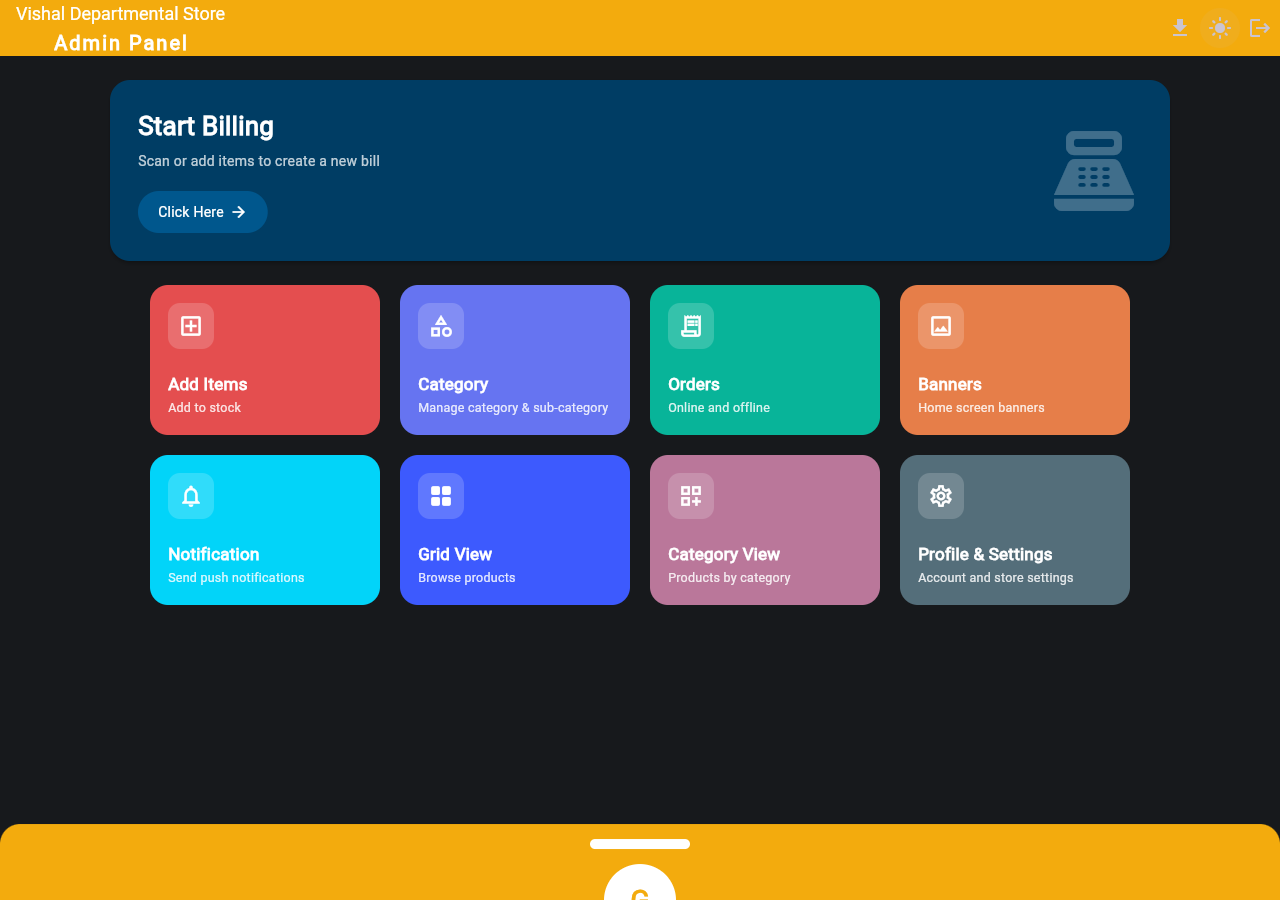
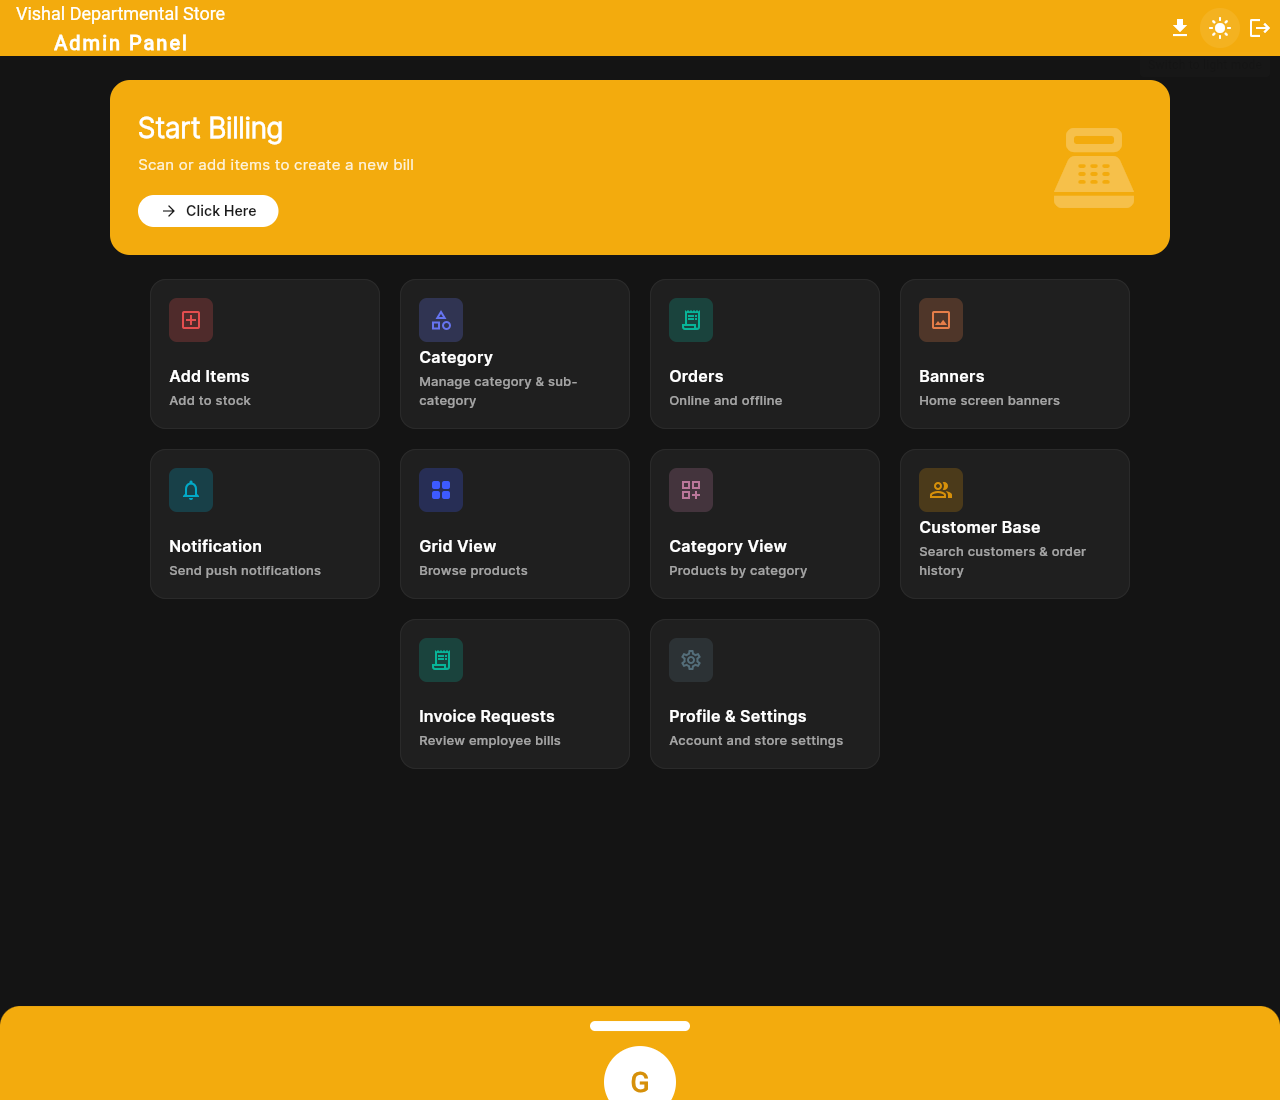
Write project README with fresh screenshots of the redesigned UI
Replaces the Flutter-generated boilerplate with an overview of what the
admin panel actually does (billing, catalog, orders, customer database,
RBAC/invoice approvals), plus screenshots recaptured against the current
Shopify-inspired redesign and RBAC feature.

diff --git a/README.md b/README.md
@@ -1,16 +1,77 @@
-# vdsadmin
+# Vishal Departmental Store — Admin Panel
 
-A new Flutter project.
+A Flutter web admin panel for a departmental store's e-commerce app. Staff use it to manage the catalog, take walk-in and online orders, run in-store billing with a barcode scanner, track loyalty points, and look up customer history — all backed by Firebase.
 
-## Getting Started
+**Live app:** https://vishal-store-admin.web.app/
 
-This project is a starting point for a Flutter application.
+![Dashboard](docs/screenshots/dashboard-light.png)
 
-A few resources to get you started if this is your first Flutter project:
+## Features
 
-- [Lab: Write your first Flutter app](https://flutter.dev/docs/get-started/codelab)
-- [Cookbook: Useful Flutter samples](https://flutter.dev/docs/cookbook)
+### Billing & catalog
+- **Start Billing** — scan a product barcode (camera or a physical USB/Bluetooth scanner) or add items manually to build a walk-in bill, generate a PDF invoice, and send it to the customer over WhatsApp.
+- **Grid View** — browse the catalog visually with a live `[-] count [+]` stepper per product; the running cart total stays in sync with the invoice, with a **View Bill** shortcut once anything's in the cart.
+- **Add Items / Category / Category View / Banners** — manage what customers see in the shopping app.
+- **Loyalty cards** — scanning a loyalty card barcode during billing (instead of a product) looks up the customer's card and lets staff award points for that purchase.
 
-For help getting started with Flutter, view our
-[online documentation](https://flutter.dev/docs), which offers tutorials,
-samples, guidance on mobile development, and a full API reference.
+| Grid View | Billing |
+|---|---|
+| ![Grid View](docs/screenshots/grid-view.png) | ![Billing](docs/screenshots/billing.png) |
+
+### Orders & customers
+- **Orders** — separate views for online orders (placed through the shopping app) and offline/walk-in orders, each with search and pincode filtering.
+- **Customer Base** — every customer aggregated from order history, searchable by name or phone, with a running total spent and full order history per customer, drilling down into the exact cart for any past order.
+
+| Online Orders | Customer detail |
+|---|---|
+| ![Online Orders](docs/screenshots/online-orders.png) | ![Customer detail](docs/screenshots/customer-detail.png) |
+
+### Roles & approvals
+The panel supports two staff roles:
+
+- **Super admin** — full access: catalog management, settings, and finalizing bills directly.
+- **Employee** — can use Start Billing, but instead of finalizing an invoice, submits it as a request for a super admin to review.
+
+Super admins get an **Invoice Requests** queue to approve (which re-opens the exact same billing screen, pre-filled, so approving behaves identically to finalizing a normal bill) or reject employee-submitted bills, and a **Manage Staff** screen to grant or revoke access by email — no manual backend commands needed.
+
+| Invoice Requests | Manage Staff |
+|---|---|
+| ![Invoice Requests](docs/screenshots/invoice-requests.png) | ![Manage Staff](docs/screenshots/manage-staff.png) |
+
+### Everything else
+- **Dark mode**, toggleable from any screen, persisted locally.
+- **Profile & Settings** — edit display name, store name/address (used on generated invoices), and (for super admins) staff access.
+- **Notifications** — send push notifications to the shopping app's users.
+
+| Dark mode | Settings |
+|---|---|
+| ![Dashboard dark](docs/screenshots/dashboard-dark.png) | ![Settings](docs/screenshots/settings.png) |
+
+## Tech stack
+
+- **Flutter Web**
+- **Firebase**: Authentication (email/password + Google sign-in, with custom claims for role-based access), Firestore, Cloud Storage, Cloud Functions (2nd gen), Hosting
+- **Firestore Security Rules** scope every collection to what the app actually needs — see `firestore.rules` context in `functions/index.js`'s comments and the `Staff`/`InvoiceRequests`/`ClubCards` collections for the access-control model
+- **Cloud Functions** (`functions/`): staff role management, loyalty point awarding/redemption, WhatsApp bill delivery — all called from Flutter over plain HTTPS (this project doesn't use the `cloud_functions` plugin)
+- **GitHub Actions** CI/CD: pushes to `new-changes` deploy straight to production; other branches get their own preview subdomain
+
+## Getting started
+
+```bash
+flutter pub get
+flutter run -d chrome
+```
+
+The app expects a Firebase project already configured (see `lib/firebase_options.dart` / `web/index.html`). To work on the Cloud Functions:
+
+```bash
+cd functions
+npm install
+firebase deploy --only functions:<functionName>   # deploy one function at a time
+```
+
+Deploying `--only functions` without a name will offer to delete any deployed function not present in this repo's `functions/index.js` — this project shares its Firebase project with a companion customer-facing app whose functions live in a different codebase, so **always scope function deploys by name**.
+
+## Deployment
+
+Merges to `new-changes` build and deploy automatically to the live site via GitHub Actions (`.github/workflows/`). Other branches get their own Firebase Hosting preview channel/subdomain for review before merging.
